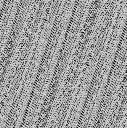
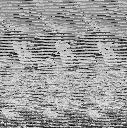
test

diff --git a/main.py b/main.py
@@ -22,7 +22,7 @@ NO_ITERATIONS = 1
 TRIANGULAR_PARAMETERS = [5, 3, 1] #c,a,d
 
 #embedding
-ALPHA = 0.01
+ALPHA = 0.1
 
 def getAudio(path):
     tupleAudio = am.readWavFile(path)
@@ -161,13 +161,13 @@ def extraction(stegoAudio, audio, outputImagePath, scramblingMode, embeddingMode
         
 if __name__ == "__main__":
     
-    wCoeffs = embedding("mono-piano.wav", "right.png", "stego-magnitudo001", 1, GRAYSCALE, "magnitudo", 1)
+    wCoeffs = embedding("mono-piano.wav", "right.png", "stego-magnitudo01", 2, GRAYSCALE, "magnitudo", 1)
     #wCoeffs = embedding("mono-piano.wav", "right.png", "stego-lsb", 0, BINARY, "lsb")
     #wCoeffs = embedding("mono-piano.wav", "right.png", "stego-delta", 0, GRAYSCALE, "delta")
 
     #print(wCoeffs)
     
-    extraction(wCoeffs, "mono-piano.wav", "magnitudo001-right.png", 1, "magnitudo", 1)
+    extraction(wCoeffs, "mono-piano.wav", "magnitudo01-right.png", 2, "magnitudo", 1)
     #extraction("stego-lsb-mono-piano.wav", "mono-piano.wav", "lsb-right.png", 0, "lsb")
     #extraction("stego-delta-mono-piano.wav", "mono-piano.wav", "delta-right.png", 0, "delta")
     
